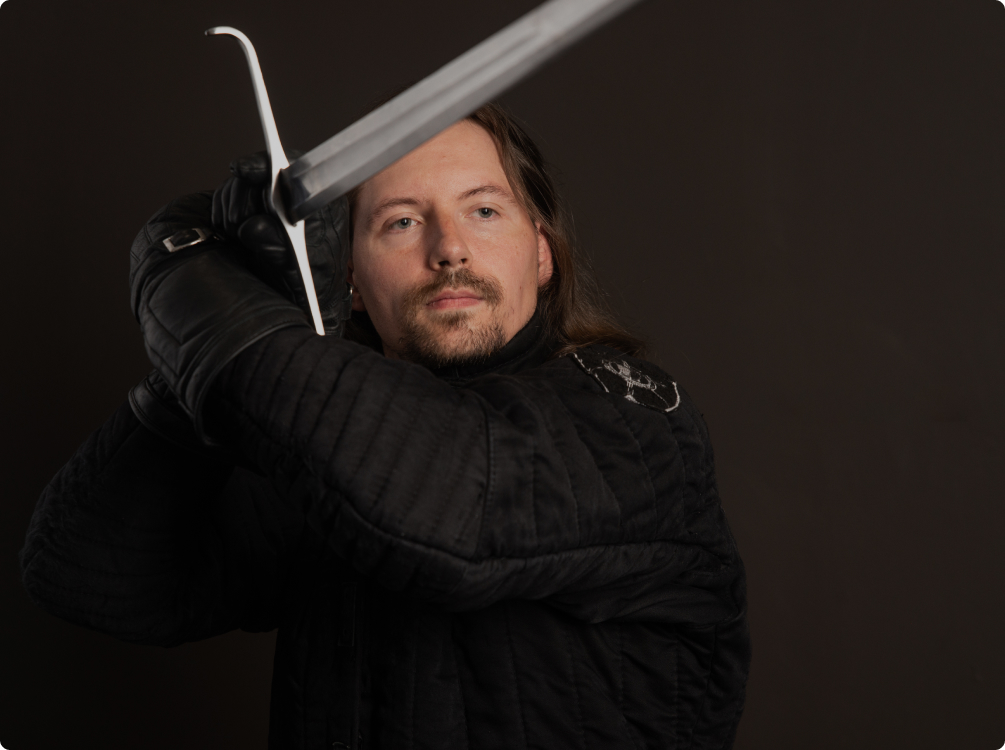
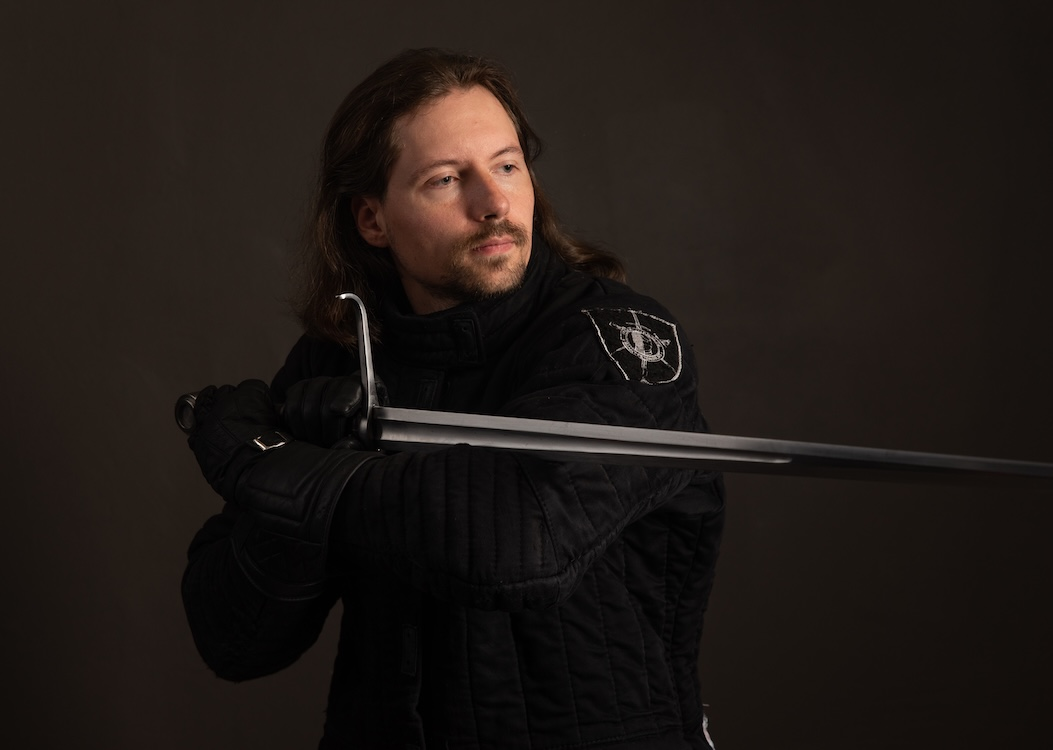
replace photos for melnikov

diff --git a/melnikov.html b/melnikov.html
@@ -55,9 +55,10 @@
     <div style="position: relative">
         <div class="photos" id="masterSlider">
             <img src="assets/img/masters/melnikov/1.jpg">
-            <img src="assets/img/masters/melnikov/2.jpeg">
+            <img src="assets/img/masters/melnikov/2.jpg">
             <img src="assets/img/masters/melnikov/3.jpg">
             <img src="assets/img/masters/melnikov/4.jpg">
+            <img src="assets/img/masters/melnikov/5.jpg">
         </div>
         <div class="controls justify-content-between align-items-center">
             <svg xmlns="http://www.w3.org/2000/svg" width="30" height="30" fill="currentColor" id="leftArrow"
